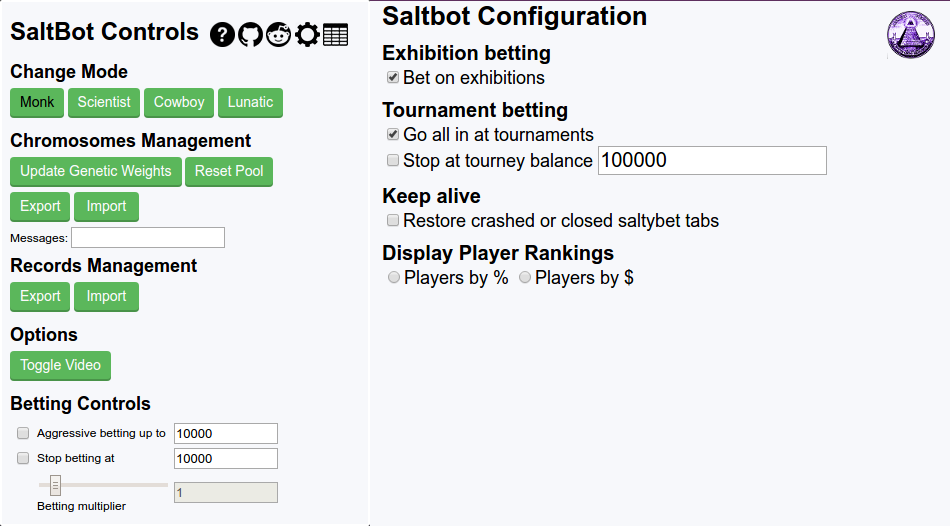
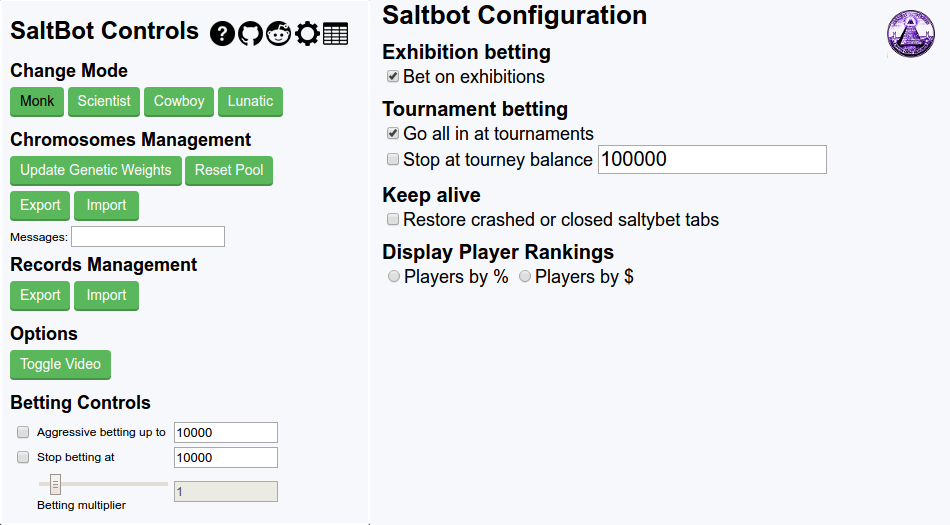
screenshot

diff --git a/README.md b/README.md
@@ -29,7 +29,7 @@ The more info you provide, the better we can diagnose the issue and remedy it.
 
 # Screenshot
 
-<img src="/src/images/screenshot.png" width="950" height="526">
+<img src="/src/images/screenshot.png" width="950" height="525">
 
 # Subreddit
 
